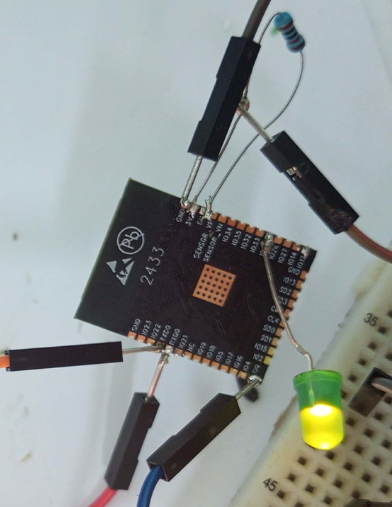
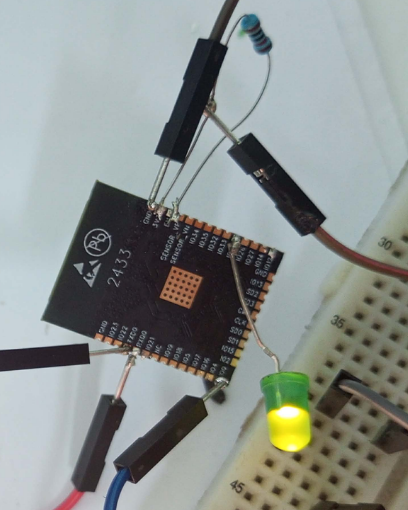
Add ESP32 OTA firmware, documentation and hardware setup

diff --git a/README.md b/README.md
@@ -1,168 +1,97 @@
-# ESP32-WROOM-32 | First UART Flash & OTA Programming
+# Espressif ESP32 Integration — UART Flashing & OTA
 
-This repository shows how to program a **standalone Espressif ESP32-WROOM-32 module** for the first time with a USB-to-UART adapter, then enable **Over-the-Air (OTA)** firmware updates over Wi-Fi.
+Standalone **Espressif ESP32-WROOM-32** module programming via **USB-to-UART** and **Over-the-Air (OTA)** updates using the Arduino ESP32 core.
 
-The goal is to use the compact ESP32 module instead of an entire development board when building a custom embedded system. This repository focuses on **the prototype photo, wiring, initial firmware, and OTA programming**.
+This repository documents a compact ESP32 prototype and its firmware. **KiCad/PCB design is not included in this version.**
 
-## 1. Why use a standalone ESP32?
+## Project overview
 
-Development boards such as the ESP32 DevKit and Beetle ESP32 are useful for testing, but they include additional circuitry that a final embedded system may not need. Working with the standalone module can reduce the size of a future design and let us select only the components our application requires.
+A development board provides built-in USB and support circuitry, but a standalone ESP32 module can be integrated into a compact embedded device with a suitable external power and programming circuit.
 
-Unlike a development board, the standalone ESP32-WROOM-32 does **not** include an onboard USB-to-UART programming interface or a complete power supply circuit. We therefore connect it to external components for the **first wired firmware upload**. After installing OTA-capable firmware, we can upload later versions over Wi-Fi.
+The workflow is:
 
-## 2. ESP32 prototype photo
+1. Wire the ESP32 and a **3.3 V logic** USB-to-UART adapter.
+2. Flash the first OTA-capable firmware through UART.
+3. Connect the device to Wi-Fi.
+4. Upload a later firmware revision over Wi-Fi while preserving OTA support.
 
-![ESP32 prototype and programming setup](images/esp32.png)
+## Prototype photo
 
-*Figure 1 — Experimental ESP32 wiring with an LED and jumper connections.*
+![Standalone ESP32 prototype](images/esp32.png)
 
-The photo documents the prototype, not a verified pin-by-pin wiring diagram. Always check the pinout of your **exact ESP32 module** before applying power.
+*The photo shows the prototype, not a validated pin-by-pin wiring diagram.* No additional screenshots are required to use this repository; none have been fabricated.
 
-## 3. Components and UART connections
+## Hardware wiring
 
-**Components:**
-
-- ESP32-WROOM-32 module (or a compatible ESP32 prototype with the correct connections)
-- USB-to-UART adapter with **3.3 V logic levels**
-- Reliable **3.3 V power supply** suitable for the ESP32's current peaks
-- Wires, common ground, and appropriate pull-up resistors
-- BOOT and RESET buttons or equivalent switches
-- Breadboard and LED (optional)
-
-| ESP32 signal | Connect to | Purpose |
+| ESP32 pin | Connection | Purpose |
 | --- | --- | --- |
-| 3V3 | Regulated 3.3 V | Module power |
-| GND | Power/adapter GND | Common ground |
-| GPIO1 / U0TXD | USB-to-UART RX | Transmit data |
-| GPIO3 / U0RXD | USB-to-UART TX | Receive data |
-| EN | Pull up to 3.3 V; button to GND | Enable/reset |
-| GPIO0 | Pull up to 3.3 V; BOOT button to GND | Select serial download mode |
+| 3V3 | Regulated 3.3 V supply | Power |
+| GND | Common supply and USB-to-UART ground | Ground reference |
+| GPIO1 / U0TXD | USB-to-UART RX | ESP32 transmit |
+| GPIO3 / U0RXD | USB-to-UART TX | ESP32 receive |
+| EN | Pull-up to 3.3 V; RESET switch to GND | Enable / reset |
+| GPIO0 | Pull-up to 3.3 V; BOOT switch to GND | Select UART download mode |
 
-**Important:** Never apply 5 V directly to the ESP32's 3V3 or GPIO pins. Some USB-to-UART adapters cannot supply enough 3.3 V current to power the ESP32 reliably; use a suitable regulated supply. The adapter and ESP32 must share ground. Also ensure the other ESP32 boot-strapping pins are in valid states.
+**Electrical safety:** Never connect 5 V directly to the ESP32's 3V3 or GPIO pins. Use an adequately rated 3.3 V supply, and verify bootstrapping pins and the pinout of the exact module. See [wiring notes](docs/wiring.md).
 
-## 4. First upload using USB-to-UART
+**Green LED:** The assembled prototype's green LED was reported to turn on. This shows an observable indicator is lit; it does *not* by itself prove Wi-Fi/OTA success or establish which GPIO, if any, controls it. The firmware examples do not assume an LED pin.
 
-We use the **Arduino IDE** and Espressif's **ESP32 Arduino core** for this example.
-
-1. Install the ESP32 board package in Arduino IDE using **Boards Manager**.
-2. Open `firmware/esp32_ota/esp32_ota.ino`.
-3. Replace `YOUR_WIFI_SSID`, `YOUR_WIFI_PASSWORD`, and `CHANGE_THIS_OTA_PASSWORD` with your own values **in your local sketch only**. Do not publish real passwords.
-4. Select the appropriate classic ESP32 board target (commonly **ESP32 Dev Module** for ESP32-WROOM-32) and the serial port. Match the flash size to your actual module.
-5. In **Tools → Partition Scheme**, choose a layout that **supports OTA**; do not select a `No OTA` partition scheme.
-6. Connect the ESP32 to your USB-to-UART adapter using the table above.
-7. To enter manual download mode: hold **BOOT** (GPIO0 LOW), briefly press and release **RESET** (EN LOW then HIGH), then release **BOOT**. Upload the sketch through the serial port.
-8. After a successful upload, make sure GPIO0 is released and reset the ESP32 to start it normally.
-9. Open the Serial Monitor at **115200 baud**. When connected to Wi-Fi, the ESP32 displays its IP address and confirms that OTA is ready.
-
-Some adapter circuits automatically control BOOT and RESET, so the manual button sequence is not always necessary.
-
-## 5. First OTA firmware (Arduino)
-
-The following program is the **first firmware**. It connects the ESP32 to Wi-Fi and starts the ArduinoOTA service, allowing future updates over the local network.
-
-The same code is provided as an editable Arduino sketch at [`firmware/esp32_ota/esp32_ota.ino`](firmware/esp32_ota/esp32_ota.ino).
-
-```cpp
-#include <WiFi.h>
-#include <ArduinoOTA.h>
-
-// Replace these placeholders locally before uploading.
-// Do not commit your real Wi-Fi credentials or OTA password to GitHub.
-const char* WIFI_SSID = "YOUR_WIFI_SSID";
-const char* WIFI_PASSWORD = "YOUR_WIFI_PASSWORD";
-const char* OTA_PASSWORD = "CHANGE_THIS_OTA_PASSWORD";
-
-void setup() {
-  Serial.begin(115200);
-  delay(500);
-
-  WiFi.mode(WIFI_STA);
-  WiFi.begin(WIFI_SSID, WIFI_PASSWORD);
-
-  Serial.print("Connecting to Wi-Fi");
-  while (WiFi.status() != WL_CONNECTED) {
-    delay(500);
-    Serial.print(".");
-  }
-  Serial.println();
-  Serial.print("Connected! IP address: ");
-  Serial.println(WiFi.localIP());
-
-  ArduinoOTA.setHostname("esp32-wroom32-ota");
-  ArduinoOTA.setPassword(OTA_PASSWORD);
-
-  ArduinoOTA.onStart([]() {
-    Serial.println("OTA update started");
-  });
-
-  ArduinoOTA.onEnd([]() {
-    Serial.println("\nOTA update finished");
-  });
-
-  ArduinoOTA.onProgress([](unsigned int progress, unsigned int total) {
-    if (total > 0) {
-      Serial.printf("OTA progress: %u%%\r", (unsigned int)(100ULL * progress / total));
-    }
-  });
-
-  ArduinoOTA.onError([](ota_error_t error) {
-    Serial.printf("\nOTA error: %u\n", (unsigned int)error);
-  });
-
-  ArduinoOTA.begin();
-  Serial.println("OTA is ready for updates over the local Wi-Fi network.");
-}
-
-void loop() {
-  // Keep OTA handling in the application, including after future updates.
-  ArduinoOTA.handle();
-}
-```
-
-### What the code does
-
-- Connects the ESP32 to your Wi-Fi network.
-- Prints the device's local IP address to the Serial Monitor.
-- Starts OTA under the hostname `esp32-wroom32-ota`.
-- Requires an OTA password when a client sends an update.
-- Prints firmware-upload progress and errors.
-- Runs `ArduinoOTA.handle()` repeatedly to process incoming OTA requests.
-
-## 6. Upload future firmware over Wi-Fi
-
-After the **first wired upload** is working:
-
-1. Keep the ESP32 powered on and connected to the same local network as your computer.
-2. Open Arduino IDE and check **Tools → Port** for a network port named like `esp32-wroom32-ota`.
-3. Select the ESP32's network port, then upload the updated sketch.
-4. Enter the OTA password when asked.
-5. The ESP32 receives the update and normally restarts into the new firmware.
-
-Network-port discovery depends on your system and local network (including mDNS/firewall settings). If it does not appear, verify the IP address and connectivity first.
-
-**Important:** Every subsequent firmware version must still initialize OTA and call `ArduinoOTA.handle()` if you want to continue updating wirelessly. If firmware loses OTA support or Wi-Fi connectivity, the UART connection may be needed for recovery.
-
-**Security:** Use a strong, unique OTA password on a trusted local network; do not expose the OTA service to the public internet. The simple ArduinoOTA example is for local prototyping, not a complete secure remote-update system.
-
-## 7. Repository files
+## Repository contents
 
 ```text
-esp32-wroom32-ota/
+Espressif-ESP32-Integration/
 ├── README.md
+├── .gitignore
 ├── images/
 │   └── esp32.png
-└── firmware/
-    └── esp32_ota/
-        └── esp32_ota.ino
+├── firmware/
+│   ├── esp32_ota/
+│   │   └── esp32_ota.ino       # Initial UART firmware (v1)
+│   └── ota_v2/
+│       └── ota_v2.ino          # Optional OTA update example (v1.1)
+└── docs/
+    ├── wiring.md
+    ├── ota-guide.md
+    └── test-results.md
 ```
 
-## 8. References
+## First UART upload
+
+1. Install [Arduino IDE](https://www.arduino.cc/en/software/) and the **Espressif ESP32** board package.
+2. Open [`firmware/esp32_ota/esp32_ota.ino`](firmware/esp32_ota/esp32_ota.ino).
+3. Fill in the Wi-Fi and OTA password placeholders **locally**. Do not commit secrets.
+4. Select a matching ESP32 board target (often **ESP32 Dev Module** for classic ESP32-WROOM-32), correct serial port, and a **partition scheme with OTA support**.
+5. Enter download mode if required: hold BOOT (GPIO0 LOW), tap RESET (EN LOW then HIGH), release BOOT, then upload over UART.
+6. Release BOOT and restart. Open Serial Monitor at **115200 baud** to check the device's Wi-Fi IP and the `OTA is ready` message.
+
+## Upload a second firmware over Wi-Fi
+
+The optional [`firmware/ota_v2/ota_v2.ino`](firmware/ota_v2/ota_v2.ino) example keeps ArduinoOTA active, prints **`Firmware version: 1.1.0`** on startup, and retries Wi-Fi connection if it drops. It does not try to control the green LED, because its GPIO connection has not been specified.
+
+1. Keep the ESP32 powered on and connected to the same trusted local network as the computer.
+2. Open `ota_v2.ino` in Arduino IDE and set the **same Wi-Fi credentials and OTA password used for v1** (locally only).
+3. Select an OTA-capable partition scheme and the ESP32's network port in Arduino IDE; ensure mDNS and firewall settings allow discovery.
+4. Upload via the network port and supply the OTA password when prompted.
+5. After the restart, check **Serial Monitor at 115200 baud** for the `Firmware version: 1.1.0` message to confirm that this *particular* update was applied. An independent power or status LED alone cannot verify the firmware version.
+
+See the [OTA procedure and troubleshooting](docs/ota-guide.md).
+
+## Tests and status
+
+The project author reported that the prototype is working and the **green LED illuminates**. No screenshots or serial log files were provided, so the repository includes a **text-based test record** instead of invented evidence. The optional v2 update example is provided for a reproducible demonstration and is **not claimed to have been tested**.
+
+See [test results](docs/test-results.md) for a checklist you can complete with your own serial logs and observations.
+
+## Security notes
+
+- Never publish Wi-Fi credentials or OTA passwords in GitHub source files.
+- Use a strong OTA password and a trusted local network; do not expose the ArduinoOTA service to the public internet.
+- Keep an accessible UART connection for recovery if OTA stops working.
+- This ArduinoOTA example is suitable for local prototyping. Production deployments may require authenticated and integrity-verified firmware updates, rollback support, and carefully configured boot security.
+
+## References
 
 - [ESP32-WROOM-32 datasheet](https://documentation.espressif.com/esp32-wroom-32_datasheet_en.html)
-- [Espressif Arduino-ESP32 documentation](https://docs.espressif.com/projects/arduino-esp32/en/latest/)
-- [Official BasicOTA example](https://github.com/espressif/arduino-esp32/blob/master/libraries/ArduinoOTA/examples/BasicOTA/BasicOTA.ino)
-- [Arduino-ESP32 partition table documentation](https://docs.espressif.com/projects/arduino-esp32/en/latest/tutorials/partition_table.html)
-
----
-
-**Project scope:** Prototype photo, initial serial flashing, and Wi-Fi OTA firmware for the ESP32.
+- [Arduino-ESP32 documentation](https://docs.espressif.com/projects/arduino-esp32/en/latest/)
+- [ArduinoOTA BasicOTA example](https://github.com/espressif/arduino-esp32/blob/master/libraries/ArduinoOTA/examples/BasicOTA/BasicOTA.ino)
+- [ESP32 OTA partitions](https://docs.espressif.com/projects/esp-idf/en/stable/esp32/api-reference/system/ota.html)

diff --git a/docs/ota-guide.md b/docs/ota-guide.md
@@ -1,0 +1,51 @@
+# UART-to-OTA firmware workflow
+
+## Requirements
+
+- Classic ESP32 module powered from a regulated 3.3 V source.
+- Arduino IDE with Espressif ESP32 board package installed.
+- UART adapter using 3.3 V logic for the first flash.
+- Wi-Fi network available to the ESP32 and development computer.
+- A flash partition scheme that includes OTA support.
+
+## 1. Flash initial OTA firmware over UART
+
+Open `firmware/esp32_ota/esp32_ota.ino`, set your Wi-Fi credentials and OTA password **locally**, and flash through the UART serial port.
+
+With the serial monitor set to **115200 baud**, look for:
+
+```text
+Connected! IP address: <device-local-IP>
+OTA is ready for updates over the local Wi-Fi network.
+```
+
+These lines illustrate expected output; they are not captured logs from the project.
+
+## 2. Update to example v1.1 over Wi-Fi
+
+Open `firmware/ota_v2/ota_v2.ino`, set the same Wi-Fi credentials and OTA password locally, and choose the ESP32's OTA network port in Arduino IDE. Upload over the local network.
+
+The updated sketch should show on restart:
+
+```text
+Firmware version: 1.1.0
+```
+
+Seeing this output after a network upload demonstrates the version change. A green LED remaining on does not establish which firmware is running.
+
+The OTA target port may fail to appear if mDNS discovery is blocked. Confirm that both devices are on the appropriate local network, check firewall settings, and verify the serial output and IP address. If OTA cannot be restored, use UART for recovery.
+
+## 3. Troubleshooting
+
+| Symptom | Check |
+| --- | --- |
+| UART `Failed to connect` | BOOT/RESET sequence, TX↔RX wiring, 3.3 V logic, shared GND |
+| Reboots or Wi-Fi instability | Regulated 3.3 V supply and enough peak current |
+| No OTA network port | Wi-Fi connection, mDNS discovery, firewall and computer network |
+| OTA password error | Password match and current sketch configuration |
+| OTA upload fails | OTA partition scheme and available flash space |
+| OTA lost after a new firmware | Updated sketch still starts OTA and calls `ArduinoOTA.handle()` |
+
+## Security
+
+This demonstration is for a trusted local network. Do not expose ArduinoOTA directly to the internet or publish real credentials in the repository. For production, consider verified firmware images and robust rollback/recovery handling.

diff --git a/docs/test-results.md b/docs/test-results.md
@@ -1,0 +1,22 @@
+# Project test record
+
+This record distinguishes observations **reported by the project author** from tests not independently documented in this repository. No screenshot or serial log has been fabricated.
+
+| Test | Current record | Evidence / notes |
+| --- | --- | --- |
+| Prototype assembled and powered | Reported working | Author reports all basic functions working |
+| Green LED | Reported ON | Function of LED (power/status/GPIO) not yet identified |
+| Initial UART firmware upload | Reported working | Actual command/serial log not attached |
+| Wi-Fi connection & OTA functionality | Reported working | Actual logs/screenshots not attached |
+| OTA example v1.1 upload | Example provided; not documented as tested | Verify by checking `Firmware version: 1.1.0` after a Wi-Fi update |
+| Automatic Wi-Fi reconnection in v1.1 | Code provided; not documented as tested | Disconnect/reconnect AP and log behavior |
+
+## Optional manual verification (no screenshots required)
+
+1. Record the date, ESP32 module variant and Arduino IDE / core version used.
+2. From a 115200 baud Serial Monitor session, copy **non-sensitive** lines showing IP assigned and OTA ready.
+3. Perform an OTA update from v1 to v1.1 and record the success message.
+4. Restart the ESP32 and record the `Firmware version: 1.1.0` line.
+5. Note whether the green LED is a power indicator or is connected to a specific GPIO. Do not claim an LED blink test until confirmed.
+
+Never include Wi-Fi passwords, OTA passwords, or private network details in public evidence.

diff --git a/docs/wiring.md b/docs/wiring.md
@@ -1,0 +1,26 @@
+# UART wiring notes
+
+This page is for **ESP32-WROOM-32** or equivalent classic ESP32 modules. Confirm exact pinout and module variant before wiring.
+
+| ESP32 signal | USB-to-UART / external circuit |
+| --- | --- |
+| 3V3 | Stable regulated 3.3 V supply (not a 5 V output) |
+| GND | Shared ground with UART adapter |
+| U0TXD / GPIO1 | UART adapter RX (3.3 V logic) |
+| U0RXD / GPIO3 | UART adapter TX (3.3 V logic) |
+| EN | Pull up to 3.3 V; momentarily pull LOW to reset |
+| GPIO0 | Pull up to 3.3 V; hold LOW during reset to enter UART download mode |
+
+Additional ESP32 strapping pins must be in valid startup states. TX/RX are crossed. The 3.3 V supply should support the ESP32's peak Wi-Fi current requirements; many UART adapters' 3.3 V outputs cannot.
+
+## Manual flashing sequence
+
+1. Hold BOOT (GPIO0 LOW).
+2. Pulse RESET (EN LOW, then release HIGH).
+3. Release BOOT.
+4. Upload the firmware via the UART serial port.
+5. Restart normally (GPIO0 HIGH) to run the application.
+
+## Green LED observation
+
+The project author reports a green LED that illuminates on the prototype. A lit LED may be a **power indicator** or an application-controlled status LED; without the schematic/GPIO mapping, we cannot determine which. The included firmware does not toggle an LED pin.
